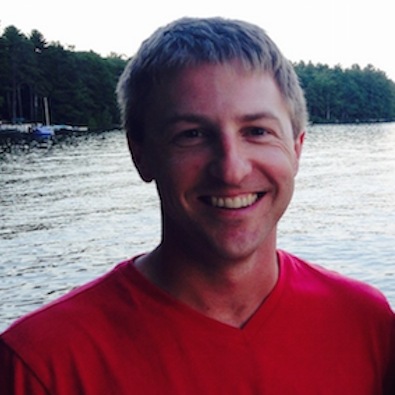
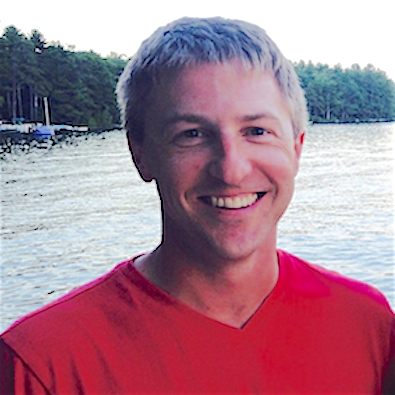
sliders added to homepage project boxes and brett head updated

diff --git a/index.html b/index.html
@@ -56,39 +56,57 @@
 				<h2>Projects</h2>
 				<div class='clearfix'>
 					<div class='project_group'>
-						<a href='http://rstlne.herokuapp.com' target='_blank'>
-							<img src='assets_home/project_thumbs/rstlne.png'>
-						</a>
+						<div class='project_link'>
+							<div class='curtain'><h3>RSTLNE!</h3></div>
+							<a href='http://rstlne.herokuapp.com' target='_blank'>
+								<img src='assets_home/project_thumbs/rstlne.png'>
+							</a>
+						</div>
 						<a href='https://github.com/WilsonBrett/final_project' target='_blank'>Github</a>
 					</div>
 					<div class='project_group'>
-						<a href='http://show-me-the-movie.herokuapp.com' target='_blank'>
-							<img src='assets_home/project_thumbs/movie.png'>
-						</a>
+						<div class='project_link'>
+							<div class='curtain'><h3>Show Me the Movie</h3></div>
+							<a href='http://show-me-the-movie.herokuapp.com' target='_blank'>
+								<img src='assets_home/project_thumbs/movie.png'>
+							</a>
+						</div>
 						<a href='https://github.com/WilsonBrett/Node_project2' target='_blank'>Github</a>
 					</div>
 					<div class='project_group'>
-						<a href='http://volunteer-registration.herokuapp.com' target='_blank'>
-							<img src='assets_home/project_thumbs/volunteer.png'>
-						</a>
+						<div class='project_link'>
+							<div class='curtain'><h3>Volunteer</h3></div>
+							<a href='http://volunteer-registration.herokuapp.com' target='_blank'>
+								<img src='assets_home/project_thumbs/volunteer.png'>
+							</a>
+						</div>
 						<a href='https://github.com/WilsonBrett/volunteer' target='_blank'>Github</a>
 					</div>
 					<div class='project_group'>
-						<a href='TicTacToe/index.html' target='_blank'>
-							<img src='assets_home/project_thumbs/tictactoe.png'>
-						</a>
+						<div class='project_link'>
+							<div class='curtain'><h3>Tic Tac Toe</h3></div>
+							<a href='TicTacToe/index.html' target='_blank'>
+								<img src='assets_home/project_thumbs/tictactoe.png'>
+							</a>
+						</div>
 						<a href='https://github.com/WilsonBrett/WilsonBrett.github.io/tree/master/TicTacToe' target='_blank'>Github</a>
 					</div>
 					<div class='project_group'>
-						<a href='unit_4/index.html' target='_blank'>
-							<img src='assets_home/project_thumbs/chilli.png'>
-						</a>
+						<div class='project_link'>
+							<div class='curtain'><h3>Chili Truck</h3></div>
+							<a href='unit_4/index.html' target='_blank'>
+								<img src='assets_home/project_thumbs/chilli.png'>
+							</a>
+						</div>
 						<a href='https://github.com/WilsonBrett/WilsonBrett.github.io/tree/master/unit_4' target='_blank'>Github</a>
 					</div>
 					<div class='project_group'>
-						<a href='unit_5/index.html' target='_blank'>
-							<img src='assets_home/project_thumbs/graise.png'>
-						</a>
+						<div class='project_link'>
+							<div class='curtain'><h3>Graise</h3></div>
+							<a href='unit_5/index.html' target='_blank'>
+								<img src='assets_home/project_thumbs/graise.png'>
+							</a>
+						</div>
 						<a href='https://github.com/WilsonBrett/WilsonBrett.github.io/tree/master/unit_5' target='_blank'>Github</a>
 					</div>
 				</div>

diff --git a/assets_home/main.css b/assets_home/main.css
@@ -73,16 +73,56 @@ section + section {
 	border-top: 1px solid rgba(77,77,77,.2);
 }
 /*Begin Projects*/
+section h2 {
+	text-align: center;
+	font-family: 'Source Sans Pro', sans-serif;
+	font-weight: 300;
+	font-size: 3rem;
+	margin-bottom: 2rem;
+}
+section#projects div.project_group h3 {
+	font-family: 'Source Sans Pro', sans-serif;
+	font-size: 2.5rem;
+	font-weight: bold;
+	color: white;
+	/*Needed both of these here because show me the movie was not centering after line break*/
+	text-align: center;
+	margin: 0 auto;
+}
+section p {
+	line-height: 2.5rem;
+	font-weight: 300;
+	font-size: 1.2rem;
+}
 section#projects > div {
 	background-color: rgb(230,230,230);
 	margin: 0 auto;
 	text-align: center;
 	padding: 0 0 2rem;
 }
-section div.project_group {
+div.project_group {
 	display: inline-block;
 	margin: 2rem 1rem 0rem;
 	text-align: left;
+}
+div.project_link {
+	position: relative;
+}
+div.project_link div.curtain {
+	position: absolute;
+	display: flex;
+	align-items: center;
+	top: 0px;
+	bottom: 0px;
+	left: 0px;
+	right: 0px;
+	background-color: rgb(0,175,215);
+	opacity: .95;
+	transition: bottom .75s, opacity .75s;
+}
+div.project_group:hover div.project_link > div.curtain {
+	bottom: 100%;
+	opacity: 0;
 }
 .project_group > a:last-child {
 	text-decoration: none;	
@@ -99,18 +139,7 @@ section div.project_group {
 	width: 325px;
 	height: 275px;/*aspect ratio 84.6154%*/
 }
-section h2 {
-	text-align: center;
-	font-family: 'Source Sans Pro', sans-serif;
-	font-weight: 300;
-	font-size: 3rem;
-	margin-bottom: 2rem;
-}
-section p {
-	line-height: 2.5rem;
-	font-weight: 300;
-	font-size: 1.2rem;
-}
+
 /*Begin Skills*/
 section#skills h2 {
 	margin-bottom: 0;
